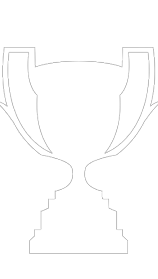
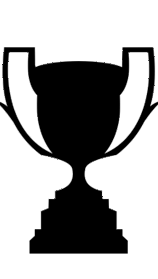
Titulos

diff --git a/pages/titulos.html b/pages/titulos.html
@@ -43,9 +43,6 @@
                         <a class="nav-link" href="./titulos.html">Titulos</a>
                     </li>
                     <li class="nav-item">
-                        <a class="nav-link" href="./camiseta.html">Camiseta</a>
-                    </li>
-                    <li class="nav-item">
                         <a class="nav-link" href="./contacto.html">Contacto</a>
                     </li>
                 </ul>
@@ -58,11 +55,157 @@
     <main>
         <article>
             <!-- Button trigger modal -->
-            <img src="../img/libertadoresSilueta.png" alt="" data-bs-toggle="modal"
-                data-bs-target="#staticBackdrop">2018
+            <h2>Primera Division</h2>
+            <div class="titulos_container">
+                <div class="titulo_container" data-bs-toggle="modal" data-bs-target="#modal_1">
+                    <img src="../img/Titulos/Primera.png" alt="Primera Division" class="titulo_img">
+                    <h4 class="titulos_text">1932</h4>
+                </div>
+                <div class="titulo_container" data-bs-toggle="modal" data-bs-target="#modal_1">
+                    <img src="../img/Titulos/Primera.png" alt="Primera Division" class="titulo_img">
+                    <h4 class="titulos_text">1932</h4>
+                </div>
+                <div class="titulo_container" data-bs-toggle="modal" data-bs-target="#modal_1">
+                    <img src="../img/Titulos/Primera.png" alt="Primera Division" class="titulo_img">
+                    <h4 class="titulos_text">1932</h4>
+                </div>
+                <div class="titulo_container" data-bs-toggle="modal" data-bs-target="#modal_1">
+                    <img src="../img/Titulos/Primera.png" alt="Primera Division" class="titulo_img">
+                    <h4 class="titulos_text">1932</h4>
+                </div>
+                <div class="titulo_container" data-bs-toggle="modal" data-bs-target="#modal_1">
+                    <img src="../img/Titulos/Primera.png" alt="Primera Division" class="titulo_img">
+                    <h4 class="titulos_text">1932</h4>
+                </div>
+                <div class="titulo_container" data-bs-toggle="modal" data-bs-target="#modal_1">
+                    <img src="../img/Titulos/Primera.png" alt="Primera Division" class="titulo_img">
+                    <h4 class="titulos_text">1932</h4>
+                </div>
+                <div class="titulo_container" data-bs-toggle="modal" data-bs-target="#modal_1">
+                    <img src="../img/Titulos/Primera.png" alt="Primera Division" class="titulo_img">
+                    <h4 class="titulos_text">1932</h4>
+                </div>
+                <div class="titulo_container" data-bs-toggle="modal" data-bs-target="#modal_1">
+                    <img src="../img/Titulos/Primera.png" alt="Primera Division" class="titulo_img">
+                    <h4 class="titulos_text">1932</h4>
+                </div>
+                <div class="titulo_container" data-bs-toggle="modal" data-bs-target="#modal_1">
+                    <img src="../img/Titulos/Primera.png" alt="Primera Division" class="titulo_img">
+                    <h4 class="titulos_text">1932</h4>
+                </div>
+                <div class="titulo_container" data-bs-toggle="modal" data-bs-target="#modal_1">
+                    <img src="../img/Titulos/Primera.png" alt="Primera Division" class="titulo_img">
+                    <h4 class="titulos_text">1932</h4>
+                </div>
+                <div class="titulo_container" data-bs-toggle="modal" data-bs-target="#modal_1">
+                    <img src="../img/Titulos/Primera.png" alt="Primera Division" class="titulo_img">
+                    <h4 class="titulos_text">1932</h4>
+                </div>
+                <div class="titulo_container" data-bs-toggle="modal" data-bs-target="#modal_1">
+                    <img src="../img/Titulos/Primera.png" alt="Primera Division" class="titulo_img">
+                    <h4 class="titulos_text">1932</h4>
+                </div>
+                <div class="titulo_container" data-bs-toggle="modal" data-bs-target="#modal_1">
+                    <img src="../img/Titulos/Primera.png" alt="Primera Division" class="titulo_img">
+                    <h4 class="titulos_text">1932</h4>
+                </div>
+                <div class="titulo_container" data-bs-toggle="modal" data-bs-target="#modal_1">
+                    <img src="../img/Titulos/Primera.png" alt="Primera Division" class="titulo_img">
+                    <h4 class="titulos_text">1932</h4>
+                </div>
+                <div class="titulo_container" data-bs-toggle="modal" data-bs-target="#modal_1">
+                    <img src="../img/Titulos/Primera.png" alt="Primera Division" class="titulo_img">
+                    <h4 class="titulos_text">1932</h4>
+                </div>
+                <div class="titulo_container" data-bs-toggle="modal" data-bs-target="#modal_1">
+                    <img src="../img/Titulos/Primera.png" alt="Primera Division" class="titulo_img">
+                    <h4 class="titulos_text">1932</h4>
+                </div>
+                <div class="titulo_container" data-bs-toggle="modal" data-bs-target="#modal_1">
+                    <img src="../img/Titulos/Primera.png" alt="Primera Division" class="titulo_img">
+                    <h4 class="titulos_text">1932</h4>
+                </div>
+                <div class="titulo_container" data-bs-toggle="modal" data-bs-target="#modal_1">
+                    <img src="../img/Titulos/Primera.png" alt="Primera Division" class="titulo_img">
+                    <h4 class="titulos_text">1932</h4>
+                </div>
+                <div class="titulo_container" data-bs-toggle="modal" data-bs-target="#modal_1">
+                    <img src="../img/Titulos/Primera.png" alt="Primera Division" class="titulo_img">
+                    <h4 class="titulos_text">1932</h4>
+                </div>
+                <div class="titulo_container" data-bs-toggle="modal" data-bs-target="#modal_1">
+                    <img src="../img/Titulos/Primera.png" alt="Primera Division" class="titulo_img">
+                    <h4 class="titulos_text">1932</h4>
+                </div>
+                <div class="titulo_container" data-bs-toggle="modal" data-bs-target="#modal_1">
+                    <img src="../img/Titulos/Primera.png" alt="Primera Division" class="titulo_img">
+                    <h4 class="titulos_text">1932</h4>
+                </div>
+                <div class="titulo_container" data-bs-toggle="modal" data-bs-target="#modal_1">
+                    <img src="../img/Titulos/Primera.png" alt="Primera Division" class="titulo_img">
+                    <h4 class="titulos_text">1932</h4>
+                </div>
+                <div class="titulo_container" data-bs-toggle="modal" data-bs-target="#modal_1">
+                    <img src="../img/Titulos/Primera.png" alt="Primera Division" class="titulo_img">
+                    <h4 class="titulos_text">1932</h4>
+                </div>
+                <div class="titulo_container" data-bs-toggle="modal" data-bs-target="#modal_1">
+                    <img src="../img/Titulos/Primera.png" alt="Primera Division" class="titulo_img">
+                    <h4 class="titulos_text">1932</h4>
+                </div>
+                <div class="titulo_container" data-bs-toggle="modal" data-bs-target="#modal_1">
+                    <img src="../img/Titulos/Primera.png" alt="Primera Division" class="titulo_img">
+                    <h4 class="titulos_text">1932</h4>
+                </div>
+                <div class="titulo_container" data-bs-toggle="modal" data-bs-target="#modal_1">
+                    <img src="../img/Titulos/Primera.png" alt="Primera Division" class="titulo_img">
+                    <h4 class="titulos_text">1932</h4>
+                </div>
+                <div class="titulo_container" data-bs-toggle="modal" data-bs-target="#modal_1">
+                    <img src="../img/Titulos/Primera.png" alt="Primera Division" class="titulo_img">
+                    <h4 class="titulos_text">1932</h4>
+                </div>
+                <div class="titulo_container" data-bs-toggle="modal" data-bs-target="#modal_1">
+                    <img src="../img/Titulos/Primera.png" alt="Primera Division" class="titulo_img">
+                    <h4 class="titulos_text">1932</h4>
+                </div>
+                <div class="titulo_container" data-bs-toggle="modal" data-bs-target="#modal_1">
+                    <img src="../img/Titulos/Primera.png" alt="Primera Division" class="titulo_img">
+                    <h4 class="titulos_text">1932</h4>
+                </div>
+                <div class="titulo_container" data-bs-toggle="modal" data-bs-target="#modal_1">
+                    <img src="../img/Titulos/Primera.png" alt="Primera Division" class="titulo_img">
+                    <h4 class="titulos_text">1932</h4>
+                </div>
+                <div class="titulo_container" data-bs-toggle="modal" data-bs-target="#modal_1">
+                    <img src="../img/Titulos/Primera.png" alt="Primera Division" class="titulo_img">
+                    <h4 class="titulos_text">1932</h4>
+                </div>
+                <div class="titulo_container" data-bs-toggle="modal" data-bs-target="#modal_1">
+                    <img src="../img/Titulos/Primera.png" alt="Primera Division" class="titulo_img">
+                    <h4 class="titulos_text">1932</h4>
+                </div>
+                <div class="titulo_container" data-bs-toggle="modal" data-bs-target="#modal_1">
+                    <img src="../img/Titulos/Primera.png" alt="Primera Division" class="titulo_img">
+                    <h4 class="titulos_text">1932</h4>
+                </div>
+                <div class="titulo_container" data-bs-toggle="modal" data-bs-target="#modal_1">
+                    <img src="../img/Titulos/Primera.png" alt="Primera Division" class="titulo_img">
+                    <h4 class="titulos_text">1932</h4>
+                </div>
+                <div class="titulo_container" data-bs-toggle="modal" data-bs-target="#modal_1">
+                    <img src="../img/Titulos/Primera.png" alt="Primera Division" class="titulo_img">
+                    <h4 class="titulos_text">1932</h4>
+                </div>
+                <div class="titulo_container" data-bs-toggle="modal" data-bs-target="#modal_1">
+                    <img src="../img/Titulos/Primera.png" alt="Primera Division" class="titulo_img">
+                    <h4 class="titulos_text">1932</h4>
+                </div>
+
+            </div>
 
             <!-- Modal -->
-            <div class="modal fade" id="staticBackdrop" data-bs-backdrop="static" data-bs-keyboard="false" tabindex="-1"
+            <div class="modal fade" id="modal_1" data-bs-backdrop="static" data-bs-keyboard="false" tabindex="-1"
                 aria-labelledby="staticBackdropLabel" aria-hidden="true">
                 <div class="modal-dialog">
                     <div class="modal-content">
@@ -139,7 +282,6 @@
                     <li class="footer_li_item"><a href="./plantel.html">Plantel</a></li>
                     <li class="footer_li_item"><a href="./estadio.html">Mâs Monumental</a></li>
                     <li class="footer_li_item"><a href="./titulos.html">Titulos</a></li>
-                    <li class="footer_li_item"><a href="./camiseta.html">Camiseta</a></li>
                     <li class="footer_li_item"><a href="./contacto.html">Contacto</a></li>
                 </ul>
             </div>

diff --git a/index.html b/index.html
@@ -43,9 +43,6 @@
                         <a class="nav-link" href="./pages/titulos.html">Titulos</a>
                     </li>
                     <li class="nav-item">
-                        <a class="nav-link" href="./pages/camiseta.html">Camiseta</a>
-                    </li>
-                    <li class="nav-item">
                         <a class="nav-link" href="./pages/contacto.html">Contacto</a>
                     </li>
                 </ul>
@@ -207,7 +204,6 @@
                     <li class="footer_li_item"><a href="./pages/plantel.html">Plantel</a></li>
                     <li class="footer_li_item"><a href="./pages/estadio.html">Mâs Monumental</a></li>
                     <li class="footer_li_item"><a href="./pages/titulos.html">Titulos</a></li>
-                    <li class="footer_li_item"><a href="./pages/camiseta.html">Camiseta</a></li>
                     <li class="footer_li_item"><a href="./pages/contacto.html">Contacto</a></li>
                 </ul>
             </div>

diff --git a/pages/contacto.html b/pages/contacto.html
@@ -43,9 +43,6 @@
                         <a class="nav-link" href="./titulos.html">Titulos</a>
                     </li>
                     <li class="nav-item">
-                        <a class="nav-link" href="./camiseta.html">Camiseta</a>
-                    </li>
-                    <li class="nav-item">
                         <a class="nav-link" href="./contacto.html">Contacto</a>
                     </li>
                 </ul>
@@ -121,7 +118,6 @@
                     <li class="footer_li_item"><a href="./plantel.html">Plantel</a></li>
                     <li class="footer_li_item"><a href="./estadio.html">Mâs Monumental</a></li>
                     <li class="footer_li_item"><a href="./titulos.html">Titulos</a></li>
-                    <li class="footer_li_item"><a href="./camiseta.html">Camiseta</a></li>
                     <li class="footer_li_item"><a href="./contacto.html">Contacto</a></li>
                 </ul>
             </div>

diff --git a/pages/estadio.html b/pages/estadio.html
@@ -43,9 +43,6 @@
                         <a class="nav-link" href="./titulos.html">Titulos</a>
                     </li>
                     <li class="nav-item">
-                        <a class="nav-link" href="./camiseta.html">Camiseta</a>
-                    </li>
-                    <li class="nav-item">
                         <a class="nav-link" href="./contacto.html">Contacto</a>
                     </li>
                 </ul>
@@ -230,7 +227,6 @@
                     <li class="footer_li_item"><a href="./plantel.html">Plantel</a></li>
                     <li class="footer_li_item"><a href="./estadio.html">Mâs Monumental</a></li>
                     <li class="footer_li_item"><a href="./titulos.html">Titulos</a></li>
-                    <li class="footer_li_item"><a href="./camiseta.html">Camiseta</a></li>
                     <li class="footer_li_item"><a href="./contacto.html">Contacto</a></li>
                 </ul>
             </div>

diff --git a/pages/plantel.html b/pages/plantel.html
@@ -43,9 +43,6 @@
                         <a class="nav-link" href="./titulos.html">Titulos</a>
                     </li>
                     <li class="nav-item">
-                        <a class="nav-link" href="./camiseta.html">Camiseta</a>
-                    </li>
-                    <li class="nav-item">
                         <a class="nav-link" href="./contacto.html">Contacto</a>
                     </li>
                 </ul>
@@ -121,7 +118,6 @@
                     <li class="footer_li_item"><a href="./plantel.html">Plantel</a></li>
                     <li class="footer_li_item"><a href="./estadio.html">Mâs Monumental</a></li>
                     <li class="footer_li_item"><a href="./titulos.html">Titulos</a></li>
-                    <li class="footer_li_item"><a href="./camiseta.html">Camiseta</a></li>
                     <li class="footer_li_item"><a href="./contacto.html">Contacto</a></li>
                 </ul>
             </div>

diff --git a/CSS/style.css b/CSS/style.css
@@ -258,6 +258,23 @@ footer {
     width: 100%;
 }
 
+/* Titulos */
+.titulo_container {
+    text-align: center;
+    margin-right: 5px;
+    margin-left: 5px;
+}
+
+.titulos_container {
+    display: flex;
+    flex-direction: row;
+    flex-wrap: wrap;
+    justify-content: center;
+}
+
+.titulo_img {
+    width: 50px;
+}
 
 /* Responsive */
 @media screen and (max-width:1200px) {
